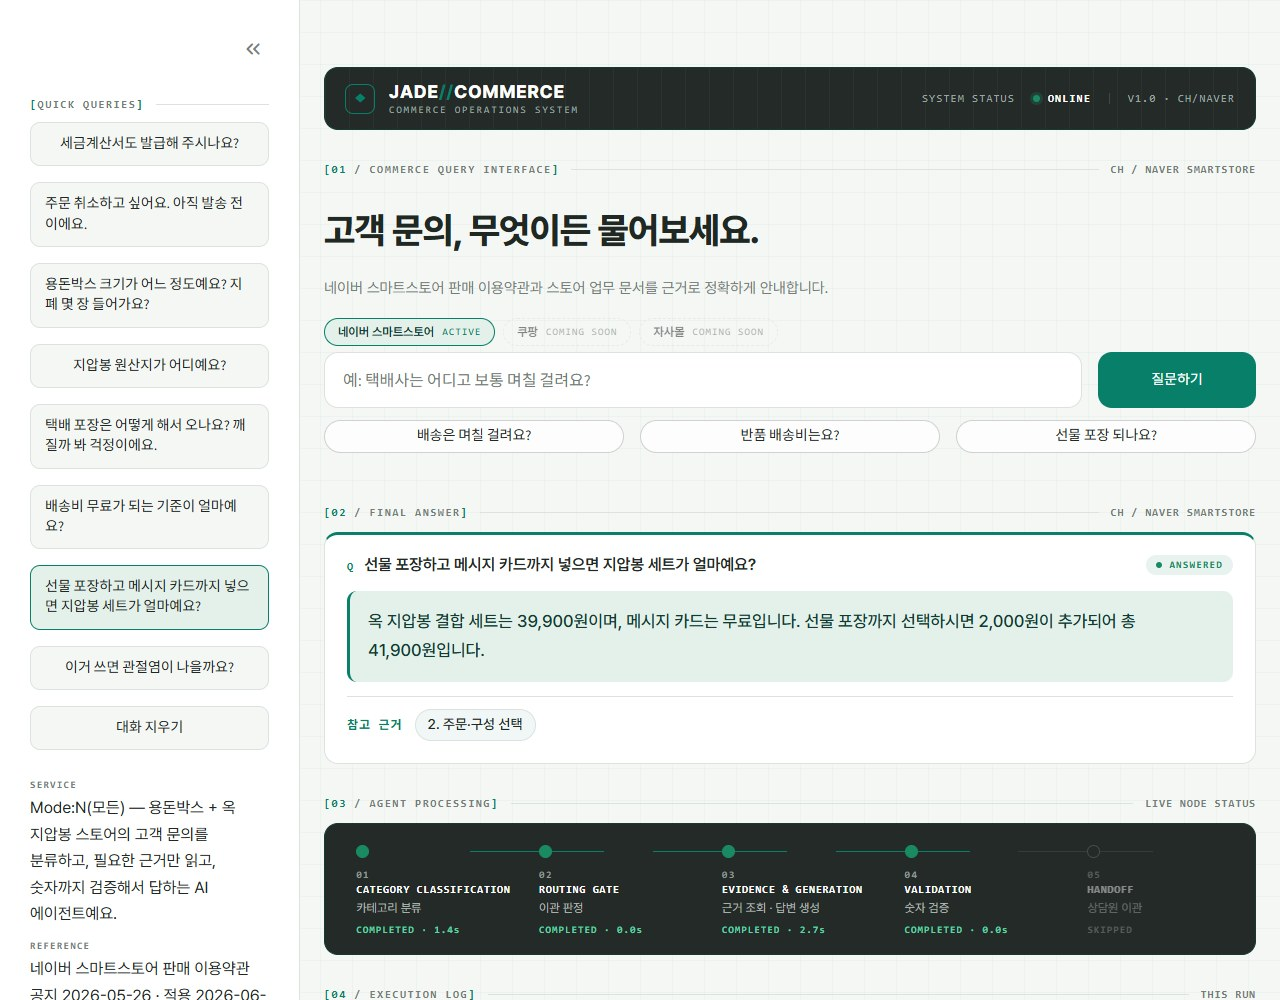
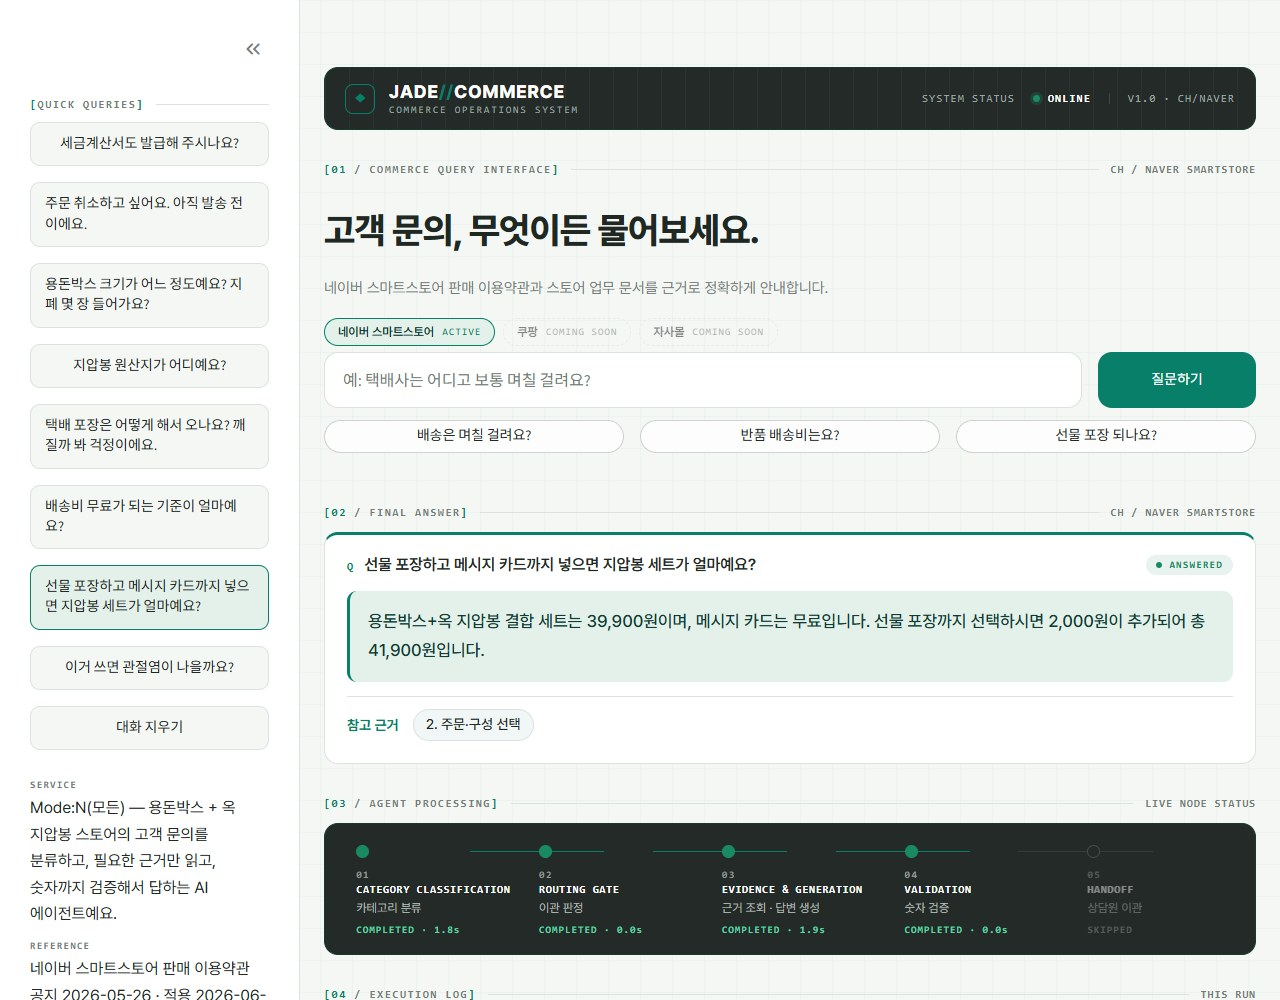
Use the body font for the evidence label and refresh screenshots

Changed region(s): [[0.2812, 0.589, 0.9375, 0.651], [0.3438, 0.713, 0.4062, 0.744], [0.2812, 0.713, 0.3125, 0.744]]

diff --git a/assets/style.css b/assets/style.css
@@ -187,7 +187,7 @@ div[data-baseweb="input"]:focus-within, [data-testid="stTextInput"] > div > div:
 .jc-empty li { padding-left: 14px; border-left: 2px solid var(--jc-primary); font-size: 13px; color: var(--jc-text2); }
 .jc-empty li b { display: block; color: var(--jc-text); font-size: 14px; }
 .jc-src { display: flex; flex-wrap: wrap; align-items: center; gap: 6px; margin-top: 14px; padding-top: 12px; border-top: 1px solid var(--jc-border); font: 500 14px/1.4 var(--jc-font); color: var(--jc-text); }
-.jc-src b { font: 700 12px/1 var(--jc-mono); letter-spacing: .08em; margin-right: 6px; color: var(--jc-primary); }
+.jc-src b { font: 700 14px/1 var(--jc-font); letter-spacing: 0; margin-right: 8px; color: var(--jc-primary); }
 .jc-src span { padding: 5px 12px; border: 1px solid var(--jc-border); border-radius: 999px; background: rgba(8, 127, 104, .06); }
 .st-key-chips { margin: -4px 0 4px; }
 .st-key-chips button { min-height: 32px; padding: 4px 12px; font-size: 12.5px; border-radius: 999px; }
